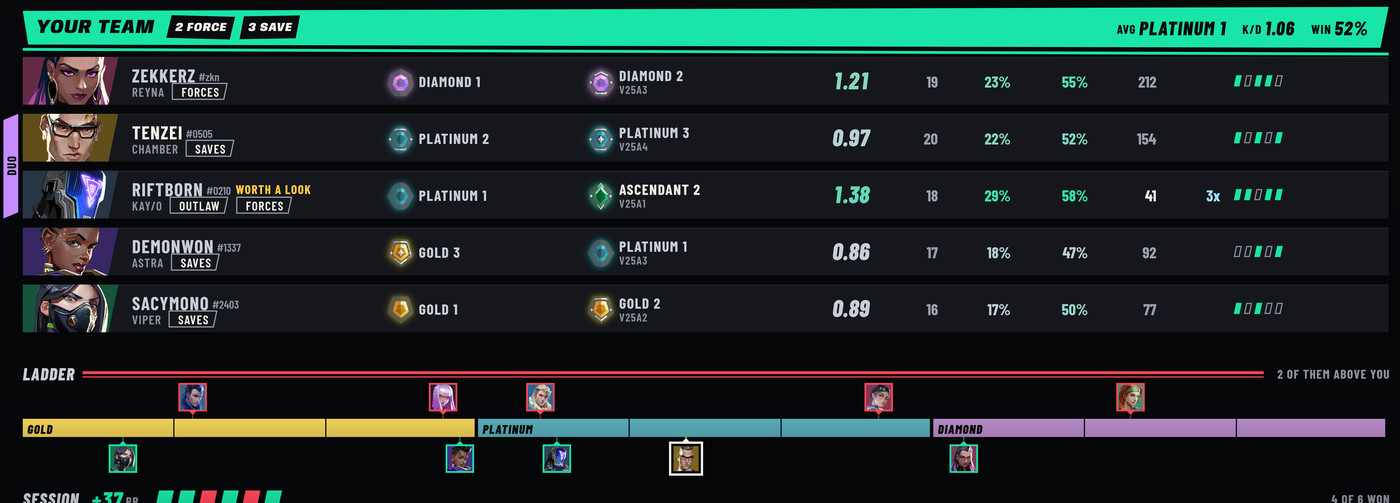
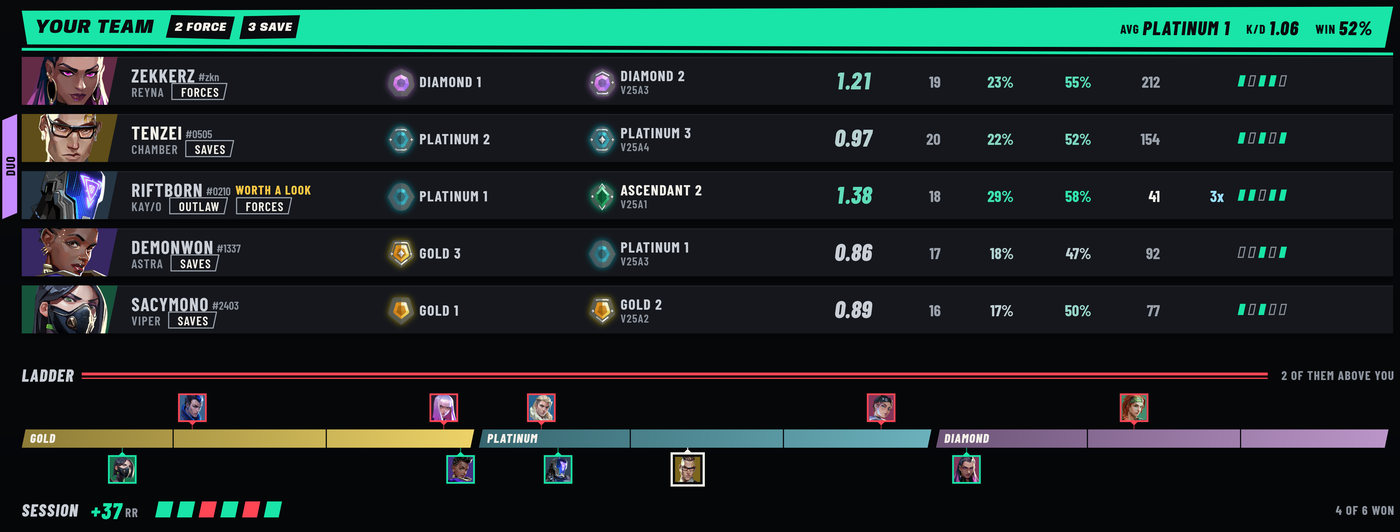
feat: Valorant Overseer 2.4.0
Tendencies come to the panel, the ladder gets rising rank plates, and the README
and site show both in new pictures.

diff --git a/docs/index.html b/docs/index.html
@@ -36,11 +36,11 @@
   "@type": "SoftwareApplication",
   "name": "Valorant Overseer",
   "alternateName": "Overseer",
-  "description": "A free match tracker for VALORANT on Windows that runs entirely on your PC. It shows everyone in your lobby and match with their rank, peak rank, K/D and win rate, who queued together, and whether an account looks like a smurf, with an agent select overlay, match history, a lineup planner and Appear Offline for Riot chat.",
+  "description": "A free match tracker for VALORANT on Windows that runs entirely on your PC. It shows everyone in your lobby and match with their rank, peak rank, K/D and win rate, who queued together, whether an account looks like a smurf, and how each player's habits compare with others on their agent and rank, with an agent select overlay, match history, a lineup planner and Appear Offline for Riot chat.",
   "applicationCategory": "GameApplication",
   "applicationSubCategory": "Match tracker",
   "operatingSystem": "Windows 10, Windows 11",
-  "softwareVersion": "2.3.4",
+  "softwareVersion": "2.4.0",
   "dateModified": "2026-11-02",
   "inLanguage": "en-CA",
   "url": "https://somethingobvious.github.io/Valorant-Overseer/",
@@ -62,6 +62,7 @@
     "Rank, peak rank, K/D, headshot rate, win rate and level for every player",
     "Party detection for duos and trios",
     "Smurf signs flagged as Worth a Look",
+    "Tendencies, which sets each player's pace and habits against peers on the same agent and rank",
     "Agent select overlay toggled with Ctrl+Alt+O",
     "Each player's three most played agents and shared role before they lock in",
     "Reads on who forces and who saves after a lost round",
@@ -507,11 +508,11 @@ h1 .w { gap: 0.05em; }
     <p class="say"><span>Every player in your match, ranked before round one.</span></p>
     <p class="lede">Rank, peak rank, K/D, headshot and win rates and who queued together, for all ten players, in a window beside VALORANT. Free for Windows 10 and 11, and it runs on your PC with no account.</p>
     <div class="get">
-      <a class="dl" href="https://github.com/SomethingObvious/Valorant-Overseer/releases/latest"><svg class="ico" aria-hidden="true"><use href="#i-down"/></svg><b>Download for Windows</b><span class="meta"><span>Free</span><span>2.3.4</span></span></a>
+      <a class="dl" href="https://github.com/SomethingObvious/Valorant-Overseer/releases/latest"><svg class="ico" aria-hidden="true"><use href="#i-down"/></svg><b>Download for Windows</b><span class="meta"><span>Free</span><span>2.4.0</span></span></a>
       <a class="src" href="https://github.com/SomethingObvious/Valorant-Overseer">Source on GitHub</a>
     </div>
     <figure class="shot">
-      <div class="px"><img src="assets/shots/board-1600.webp" srcset="assets/shots/board-960.webp 960w, assets/shots/board-1600.webp 1600w, assets/shots/board-3200.webp 3200w" sizes="(min-width: 1000px) 48vw, 100vw" width="1600" height="955" fetchpriority="high" alt="The Overseer board in a VALORANT match on Icebox: the enemy team's ranks, peak ranks, K/D, headshot and win rates, with one player flagged Worth a Look and a possible trio, your team below, and the selected player's panel on the right"></div>
+      <div class="px"><img src="assets/shots/board-1600.webp" srcset="assets/shots/board-960.webp 960w, assets/shots/board-1600.webp 1600w, assets/shots/board-3200.webp 3200w" sizes="(min-width: 1000px) 48vw, 100vw" width="1600" height="980" fetchpriority="high" alt="The Overseer board in a VALORANT match on Icebox: the enemy team's ranks, peak ranks, K/D, headshot and win rates, with one player flagged Worth a Look and a possible trio, your team below, and the selected player's panel on the right"></div>
       <figcaption>Round five on Icebox, enemy team on top.</figcaption>
       <span class="call star red" aria-hidden="true">All Ten Players</span>
     </figure>
@@ -579,18 +580,20 @@ h1 .w { gap: 0.05em; }
     <div class="wrap">
       <div class="head cutin"><h2 id="panel-h"><span class="vh">Peak, Form and Reads</span><span class="rn" aria-hidden="true"><span class="w"><i class="t v3" style="--s:1.05;--r:-6.5deg;--y:-0.03em">P</i><i class="t v1" style="--s:0.89;--r:-5.3deg;--y:-0.03em">E</i><i class="t v3" style="--s:0.87;--r:-5.0deg;--y:-0.05em">A</i><i class="t v7" style="--s:0.87;--r:-1.8deg;--y:0.06em">K</i><i class="t tp">,</i></span> <span class="w"><i class="t v3" style="--s:1.03;--r:0.5deg;--y:-0.05em">F</i><i class="t v8" style="--s:1.06;--r:-3.5deg;--y:0.02em">O</i><i class="t v7" style="--s:0.94;--r:3.4deg;--y:0.02em">r</i><i class="t v1" style="--s:1.00;--r:-2.8deg;--y:0.04em">M</i></span> <span class="w"><i class="t v6" style="--s:0.89;--r:-2.5deg;--y:0.03em">A</i><i class="t v5" style="--s:1.04;--r:-0.1deg;--y:0.04em">N</i><i class="t v7" style="--s:0.96;--r:-3.1deg;--y:0.00em">D</i></span> <span class="w"><i class="t v6" style="--s:1.05;--r:-1.4deg;--y:-0.03em">R</i><i class="t v7" style="--s:0.91;--r:-5.2deg;--y:0.02em">e</i><i class="t v3" style="--s:1.08;--r:-0.9deg;--y:0.01em">A</i><i class="t v1" style="--s:0.94;--r:6.5deg;--y:0.06em">D</i><i class="t v3" style="--s:0.96;--r:-2.8deg;--y:-0.06em">S</i></span></span></h2></div>
       <figure class="shot back panel">
-        <div class="px"><img src="assets/shots/rung-panel-800.webp" srcset="assets/shots/rung-panel-800.webp 1x, assets/shots/rung-panel-1340.webp 2x" width="670" height="1280" loading="lazy" decoding="async" alt="A player's panel in Overseer: their card, a Worth a Look flag listing their level, their peak and when they reached it, their K/D and win rate, reads, Platinum 3 with RR, four wins in a row, stats, a likely trio and the games you've met them in before"></div>
+        <div class="px"><img src="assets/shots/rung-panel-800.webp" srcset="assets/shots/rung-panel-800.webp 1x, assets/shots/rung-panel-1340.webp 2x" width="670" height="1544" loading="lazy" decoding="async" alt="A player's panel in Overseer: their card, a Worth a Look flag listing their level, their peak and when they reached it, their K/D and win rate, reads, Platinum 3 with RR, four wins in a row, their stats, and Tendencies placing them as more aggressive than 86% of Clove players at their rank"></div>
         <figcaption>Vexlyn's panel, flagged Worth a Look.</figcaption>
         <span class="call star warn" aria-hidden="true">Worth a Look</span>
       </figure>
       <div class="words">
         <p>Rest the pointer on a player and the panel opens on their card, their rank with its RR, their form over recent games, the agents they main and a rating line across their last ten. It also lists who they play with most, and how often they win together.</p>
         <p>Reads sum up their habits from those matches, like whether they save or force on a bad round, or only ever play one agent. An account that looks like a smurf is flagged <strong>Worth a Look</strong>, with the reasons beside it. Notes and tags you leave on a player come back the next time you meet them.</p>
+        <h3>Tendencies</h3>
+        <p>Tendencies sets their recent games against other players on the same agent in the same rank band. It names their pace, like Aggressive, and up to two habits that stand out, each on a curve of those peers with a tip for playing against it, then guesses what they will buy on this kind of round from the rounds like it they have played.</p>
         <h3>Who Queued Together</h3>
-        <p>Parties get a tab down the side of their rows, so a duo or a trio reads at a glance. The ladder under the board puts everyone in the lobby at their rank, and your session's RR keeps count of the night.</p>
+        <p>Parties get a tab down the side of their rows, so a duo or a trio reads at a glance. The ladder under the board puts everyone in the lobby on their rank's plate, the other team above it and yours below, and your session's RR keeps count of the night.</p>
       </div>
       <figure class="shot back parties pan">
-        <div class="px"><img src="assets/shots/rung-parties-1400.webp" srcset="assets/shots/rung-parties-800.webp 800w, assets/shots/rung-parties-1400.webp 1400w, assets/shots/rung-parties-2800.webp 2800w" sizes="(max-width: 720px) 760px, (min-width: 1000px) 56vw, 100vw" width="1400" height="503" loading="lazy" decoding="async" alt="Your team in Overseer with a duo tab joining two players' rows, the rank ladder placing every player in the lobby, and plus 37 RR for the session"></div>
+        <div class="px"><img src="assets/shots/rung-parties-1400.webp" srcset="assets/shots/rung-parties-800.webp 800w, assets/shots/rung-parties-1400.webp 1400w, assets/shots/rung-parties-2800.webp 2800w" sizes="(max-width: 720px) 760px, (min-width: 1000px) 56vw, 100vw" width="1400" height="532" loading="lazy" decoding="async" alt="Your team in Overseer with a duo tab joining two players' rows, the rank ladder placing every player in the lobby on plates for Gold, Platinum and Diamond, and plus 37 RR for the session"></div>
         <figcaption>Your team with a duo, the lobby's rank ladder and the session's RR.</figcaption>
         <span class="call say-it swipe" aria-hidden="true">Swipe for the Ladder</span>
       </figure>
@@ -664,7 +667,7 @@ h1 .w { gap: 0.05em; }
       <div class="head cutin"><h2 id="admit-h"><span class="vh">Setup in Three Steps</span><span class="rn" aria-hidden="true"><span class="w"><i class="t v5" style="--s:0.96;--r:6.5deg;--y:0.05em">S</i><i class="t v1" style="--s:0.99;--r:-0.2deg;--y:0.00em">E</i><i class="t v6" style="--s:0.89;--r:1.9deg;--y:-0.03em">T</i><i class="t v2" style="--s:0.88;--r:-0.8deg;--y:-0.03em">U</i><i class="t v5" style="--s:0.86;--r:-1.9deg;--y:-0.01em">P</i></span> <span class="w"><i class="t v8" style="--s:1.01;--r:1.6deg;--y:0.05em">I</i><i class="t v7" style="--s:0.97;--r:4.9deg;--y:0.01em">N</i></span> <span class="w"><i class="t v6" style="--s:0.90;--r:-3.9deg;--y:0.03em">T</i><i class="t v8" style="--s:0.89;--r:-6.4deg;--y:0.05em">H</i><i class="t v5" style="--s:0.94;--r:4.3deg;--y:-0.00em">R</i><i class="t v3" style="--s:1.11;--r:2.8deg;--y:0.01em">E</i><i class="t v1" style="--s:1.05;--r:0.7deg;--y:0.00em">E</i></span> <span class="w"><i class="t v7" style="--s:0.91;--r:2.6deg;--y:-0.00em">S</i><i class="t v1" style="--s:0.88;--r:-3.4deg;--y:-0.04em">T</i><i class="t v3" style="--s:1.07;--r:2.1deg;--y:-0.05em">E</i><i class="t v7" style="--s:1.12;--r:2.2deg;--y:-0.01em">p</i><i class="t v6" style="--s:0.89;--r:-3.5deg;--y:-0.01em">S</i></span></span></h2></div>
       <div class="get2">
         <span class="call star red" aria-hidden="true">No Admin Rights</span>
-        <a class="dl big" href="https://github.com/SomethingObvious/Valorant-Overseer/releases/latest"><svg class="ico" aria-hidden="true"><use href="#i-down"/></svg><b>Download for Windows</b><span class="meta"><span>Free</span><span>2.3.4</span></span></a>
+        <a class="dl big" href="https://github.com/SomethingObvious/Valorant-Overseer/releases/latest"><svg class="ico" aria-hidden="true"><use href="#i-down"/></svg><b>Download for Windows</b><span class="meta"><span>Free</span><span>2.4.0</span></span></a>
         <p>Setup installs Overseer into AppData with its own copy of Python, so it needs no admin rights. It also installs yt-dlp and FFmpeg with winget for lineup clips. A new version's setup updates in place and keeps your region, lineups, notes and settings, and it uninstalls from Settings, then Apps.</p>
       </div>
       <ol class="steps">
@@ -695,8 +698,8 @@ h1 .w { gap: 0.05em; }
     <article class="card">
       <div class="head cutin"><h2 id="close-h"><span class="vh">Before Round One</span><span class="rn" aria-hidden="true"><span class="w"><i class="t v8" style="--s:1.07;--r:-3.6deg;--y:-0.00em">B</i><i class="t v2" style="--s:1.08;--r:0.1deg;--y:-0.05em">E</i><i class="t v4" style="--s:0.93;--r:2.8deg;--y:0.04em">F</i><i class="t v5" style="--s:0.86;--r:1.7deg;--y:-0.05em">O</i><i class="t v1" style="--s:1.01;--r:-5.0deg;--y:0.01em">R</i><i class="t v2" style="--s:0.86;--r:1.2deg;--y:0.01em">E</i></span> <span class="w"><i class="t v6" style="--s:0.88;--r:-1.0deg;--y:-0.04em">R</i><i class="t v1" style="--s:1.06;--r:5.4deg;--y:-0.00em">O</i><i class="t v7" style="--s:0.91;--r:-0.2deg;--y:0.05em">u</i><i class="t v1" style="--s:1.04;--r:-1.1deg;--y:0.04em">N</i><i class="t v8" style="--s:1.01;--r:4.2deg;--y:0.00em">D</i></span> <span class="w"><i class="t v3" style="--s:0.92;--r:-6.0deg;--y:-0.03em">O</i><i class="t v6" style="--s:0.98;--r:-4.7deg;--y:-0.05em">N</i><i class="t v2" style="--s:1.06;--r:6.3deg;--y:-0.03em">E</i></span></span></h2></div>
       <p class="note">Every player in your match, ranked. Free for Windows 10 and 11, and it runs on your PC with no account.</p>
-      <a class="dl big" href="https://github.com/SomethingObvious/Valorant-Overseer/releases/latest"><svg class="ico" aria-hidden="true"><use href="#i-down"/></svg><b>Download for Windows</b><span class="meta"><span>Free</span><span>2.3.4</span></span></a>
-      <p class="sign"><span class="chip"><img src="assets/mark.svg" width="32" height="32" alt=""></span><span class="who">Valorant Overseer</span><span class="ver">2.3.4</span></p>
+      <a class="dl big" href="https://github.com/SomethingObvious/Valorant-Overseer/releases/latest"><svg class="ico" aria-hidden="true"><use href="#i-down"/></svg><b>Download for Windows</b><span class="meta"><span>Free</span><span>2.4.0</span></span></a>
+      <p class="sign"><span class="chip"><img src="assets/mark.svg" width="32" height="32" alt=""></span><span class="who">Valorant Overseer</span><span class="ver">2.4.0</span></p>
     </article>
   </section>
 </main>

diff --git a/crates/overseer-app/src/shot/site.rs b/crates/overseer-app/src/shot/site.rs
@@ -341,6 +341,81 @@ fn vexlyn(p: &mut Player) {
             "Economy",
         ),
     ];
+    p.tendencies = Some(tendencies());
+    p.brief = [
+        "Opening kill/death involvement: 24% · 412 rounds · peers 15%",
+        "Gun-kill range: 2,140 map units · 211 kills · peers 1,630 map units",
+        "Rounds with Operator: 14% · 412 rounds · peers 4%",
+        "Death timing: 31s · 284 deaths · peers 38s",
+        "Spike plants: 19% · 206 attack rounds · peers 21%",
+    ]
+    .into_iter()
+    .map(|text| overseer_core::BriefLine {
+        text: Some(text.to_owned()),
+        ..overseer_core::BriefLine::default()
+    })
+    .collect();
+}
+
+/// The selected enemy's Tendencies section, worded the way the backend words it:
+/// an aggressive Operator player who takes the first fight.
+fn tendencies() -> overseer_core::Tendencies {
+    let finding = |headline: &str, evidence: &str, suggest: &str, pct: f32, ends: (&str, &str)| {
+        overseer_core::TendenciesFinding {
+            headline: Some(headline.to_owned()),
+            evidence: Some(evidence.to_owned()),
+            suggest: Some(suggest.to_owned()),
+            pct: Some(pct),
+            pos: Some(1.4 * (pct - 0.5) / 0.4),
+            left: Some(ends.0.to_owned()),
+            right: Some(ends.1.to_owned()),
+            share: Some(format!("{}th pct", (pct * 100.0).round())),
+            ..overseer_core::TendenciesFinding::default()
+        }
+    };
+    overseer_core::Tendencies {
+        title: Some("Tendencies".to_owned()),
+        tag: Some(finding(
+            "Aggressive",
+            "more aggressive than 86% of peers · 18 games",
+            "",
+            0.86,
+            ("passive", "aggressive"),
+        )),
+        habits: vec![
+            finding(
+                "Takes the first fight",
+                "in the opening fight more than 89% of peers · 24% vs 15% · 18 games",
+                "Set up a trade for the opening.",
+                0.89,
+                ("stays out", "takes fights"),
+            ),
+            finding(
+                "Fights at long range",
+                "kills from further than 81% of peers · 16/18 games",
+                "Use utility before a long peek.",
+                0.81,
+                ("close", "long range"),
+            ),
+        ],
+        buy: Some(overseer_core::TendenciesBuy {
+            label: Some("Pistol · 36 past rounds".to_owned()),
+            armor: Some("Light armor 25/36".to_owned()),
+            items: vec![
+                overseer_core::TendenciesGun {
+                    name: Some("Ghost".to_owned()),
+                    value: Some("22/36".to_owned()),
+                },
+                overseer_core::TendenciesGun {
+                    name: Some("Classic".to_owned()),
+                    value: Some("14/36".to_owned()),
+                },
+            ],
+            ..overseer_core::TendenciesBuy::default()
+        }),
+        footer: Some("Last 18 ranked games · 15 on Clove".to_owned()),
+        ..overseer_core::Tendencies::default()
+    }
 }
 
 /// The site's lobby: the snapshot board's shapes with the numbers a real
@@ -469,7 +544,17 @@ fn shots() -> Vec<(&'static str, Vec2, Shot)> {
     vec![
         (
             "board",
-            vec2(1600.0, 955.0),
+            vec2(1600.0, 980.0),
+            Shot::Window(Box::new(
+                Scene::of(Some(SELECTED))
+                    .with(lobby())
+                    .lived(career(&renamed(A_HISTORY))),
+            )),
+        ),
+        (
+            // The same board, tall enough for the whole of Vexlyn's panel.
+            "panel",
+            vec2(1600.0, 1500.0),
             Shot::Window(Box::new(
                 Scene::of(Some(SELECTED))
                     .with(lobby())
@@ -668,7 +753,7 @@ fn the_site_pictures_render_to_the_folder() {
         // render, and the board's key and panel crops are a part of it.
         let scale = match name {
             "settings" => 5.0,
-            "board" => 4.0,
+            "board" | "panel" => 4.0,
             _ => 3.0,
         };
         let mut harness = Harness::builder()

diff --git a/README.md b/README.md
@@ -5,7 +5,8 @@
 Valorant Overseer is a match tracker for VALORANT on Windows that runs entirely
 on your PC. It shows all ten players in your match with their rank, peak rank,
 K/D and win rate, who queued together, and whether an account looks like a
-smurf. It also keeps your match history, has a lineup planner with clips for
+smurf, and Tendencies sets each player's habits against others on the same agent at
+about the same rank. It also keeps your match history, has a lineup planner with clips for
 every map, puts an overlay over the game in agent select, and can hide you
 from your friends in Riot chat.
 
@@ -17,7 +18,7 @@ There's more on the [Valorant Overseer site](https://somethingobvious.github.io/
 
 ![The Overseer board in a VALORANT match, with each player's rank, peak rank and K/D](docs/assets/shots/board-1600.webp)
 
-![Overseer in agent select, with your team's ranks, a duo and the rank ladder](docs/assets/shots/pregame-1600.webp)
+![Overseer in agent select, with your team's ranks, a duo and the rank ladder of plates](docs/assets/shots/pregame-1600.webp)
 
 ![The Overseer overlay over VALORANT in agent select](docs/assets/shots/overlay-full.webp)
 
@@ -48,12 +49,24 @@ card, their rank with its RR, their form, the agents they main and who they
 play with most. Reads sum up their habits from recent matches, and an account
 that looks like a smurf is flagged Worth a Look with the reasons beside it.
 Notes and tags you leave on a player come back the next time you meet them.
-Under the board, the ladder puts everyone in the lobby at their rank, framed
-in their team's colour, and your session's RR keeps count of the night.
+
+Under their stats, Tendencies puts the player's recent games against other players
+on the same agent in the same rank band. It names their pace, like Aggressive,
+and up to two habits that stand out, each on a curve of those peers with a tip
+for playing against it. It also guesses what they'll buy on this kind of round
+from the rounds like it they've played, and All Figures opens every line it
+worked out. Games and Within in Settings pick how many recent games each row
+reads (5, 10 or 20) and how old they can be.
+
+Under the board, the ladder lays the lobby's ranks out as a strip of plates
+that brighten toward the top of each rank. Your team sits below it and the
+other team above, each face framed in its team's colour, and faces that land
+close together overlap a little instead of hiding each other. Your session's
+RR keeps count of the night beneath it.
 
 Your match history shows each game's score with a Victory or Defeat chip under
-it, your K/D/A, ACS and the RR you won or lost. Open one for the full scoreboard, with ADR, headshot rate, KAST and
-first bloods for all ten players.
+it, your K/D/A, ACS and the RR you won or lost. Open one for the full
+scoreboard, with ADR, headshot rate, KAST and first bloods for all ten players.
 
 The lineup planner covers every map. Drag from where you stand to where it
 lands, pick the agent and the ability, and add a clip from a YouTube link or a
@@ -81,16 +94,15 @@ or installs anything by itself. Your notes, lineups and history stay in the
 install folder, and Your Data in settings opens it.
 
 The window draws nothing while you leave it alone, and asks Windows for the
-integrated GPU so VALORANT keeps the faster
-one.
+integrated GPU so VALORANT keeps the faster one.
 
-Tendencies reuses those recent games (5, 10 or 20 per player) and a bundled 1 MB
-file of peer statistics; it never downloads the research dataset or crawls
-other players' histories. The peer baseline was sampled through one account,
-so its percentiles describe that sample, not the whole ranked population.
-The optional party match cache expires after the selected number of days
-and holds at most 200 compressed matches or 64 MiB, evicting the oldest first.
-Turning retention off clears that cache. Tendencies adds no permanent match log.
+Tendencies works from the same recent games and a 1 MB file of peer statistics
+that ships with the app, so it doesn't crawl anyone else's history. That
+baseline was sampled through one account, which means its percentiles describe
+that sample and not every ranked player. Keep in settings holds your party's
+games on disk for 7, 14 or 30 days, so a restart doesn't ask Riot for them
+again. It keeps at most 200 matches or 64 MiB and drops the oldest first, and
+setting it to Off clears it.
 
 ## Installing
 

diff --git a/crates/README.md b/crates/README.md
@@ -225,7 +225,7 @@ game, that is the right way round.
 
 ## The Python Backend Stays for Now
 
-`backend/` is about 10,000 lines, and its value is in the parts nobody sees:
+`backend/` is about 16,000 lines, and its value is in the parts nobody sees:
 the 429 handling, the caches keyed on match ids, the queue preference order in
 `_fresh_mids`, the throttles that keep this read-only and unbannable.
 Rewriting that in one go is where a ban comes from. The window only reaches
